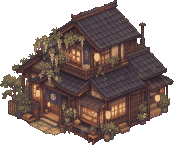
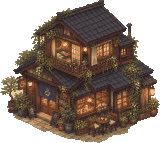
Nueva versión de la librería por fuera
- Sustituye el dibujo exterior de la librería por la nueva versión
  (original en art/source/libreria-exterior-v2.webp), con terraza,
  pizarras y letrero.
- tools/clean_art.py: nueva opción --remove-bg que quita los fondos
  claros "falsos" (blanco o cuadros grises dibujados por la IA) sin
  tocar los blancos del propio dibujo.
- La entrada al barrio y el punto de la puerta se alinean con el
  noren de la nueva fachada.

Claude-Session: https://claude.ai/code/session_018AdnfDpiXdnQwk9spPLrLB

diff --git a/src/data/townLayout.js b/src/data/townLayout.js
@@ -8,10 +8,10 @@
 export const TOWN_SIZE = { width: 1600, height: 1200 };
 
 // Al salir de la librería apareces aquí, delante de su puerta
-export const TOWN_START = { x: 800, y: 1080 };
+export const TOWN_START = { x: 826, y: 1080 };
 
 // Puerta de la librería: al acercarte pregunta si quieres entrar
-export const LIBRARY_DOOR = { x: 800, y: 1072, radio: 22 };
+export const LIBRARY_DOOR = { x: 826, y: 1072, radio: 22 };
 
 export const COLORS = {
   hierba: 0x8fae5d,
@@ -32,8 +32,8 @@ export const PLAZA = { x: 800, y: 620, radio: 95, fuente: 26 };
 export const PATHS = [
   // De la librería a la plaza (rodea la librería por la izquierda)
   [
-    { x: 800, y: 1062 },
-    { x: 790, y: 1100 },
+    { x: 826, y: 1068 },
+    { x: 800, y: 1100 },
     { x: 700, y: 1105 },
     { x: 640, y: 1040 },
     { x: 650, y: 920 },
@@ -95,7 +95,7 @@ export const BUILDINGS = [
     tejado: 50,
     pared: 0xc9a27a,
     techo: 0x4a3b5c,
-    imagen: { archivo: 'libreria-exterior.png', origen: { x: 0.4866, y: 0.9658 } },
+    imagen: { archivo: 'libreria-exterior.png', origen: { x: 0.4608, y: 0.8102 } },
   },
   { id: 'casaOeste', nombre: 'Casa antigua', x: 250, y: 430, w: 120, h: 50, tejado: 45, pared: 0xb89a7a, techo: 0x5a4a4a },
   { id: 'casaSuroeste', nombre: 'Casa antigua', x: 330, y: 980, w: 110, h: 50, tejado: 40, pared: 0xb08f6e, techo: 0x56463f },

diff --git a/tools/clean_art.py b/tools/clean_art.py
@@ -1,5 +1,6 @@
 """Limpia una imagen de "falso pixel art" (p. ej. generada por IA) para el juego.
 
+- Quita un fondo claro "falso" (blanco o cuadros grises dibujados) con --remove-bg.
 - Recorta el espacio vacío alrededor (con --trim, para imágenes con fondo transparente).
 - La reduce al tamaño exacto que usa el juego (cuadrícula real de píxeles).
 - Reduce el número de colores para que todo comparta un estilo coherente.
@@ -7,11 +8,45 @@
 
 Uso:
     python3 tools/clean_art.py ENTRADA SALIDA --size 640x360 [--colors 64]
-    python3 tools/clean_art.py ENTRADA SALIDA --scale 0.16 --trim [--colors 96]
+    python3 tools/clean_art.py ENTRADA SALIDA --scale 0.16 --remove-bg --trim [--colors 96]
 """
 import argparse
 
-from PIL import Image
+from PIL import Image, ImageDraw
+
+
+def remove_light_background(imagen):
+    """Hace transparente el fondo claro y sin color que toca el borde de la imagen.
+
+    Solo se borran las zonas conectadas con el borde, así que los blancos
+    del propio dibujo (cortinas, farolillos…) se conservan."""
+    rgba = imagen.load()
+    ancho, alto = imagen.size
+    mascara = Image.new('L', imagen.size, 0)
+    m = mascara.load()
+    for y in range(alto):
+        for x in range(ancho):
+            r, g, b, a = rgba[x, y]
+            claro = min(r, g, b) > 205 and max(r, g, b) - min(r, g, b) < 22
+            if a < 20 or claro:
+                m[x, y] = 255
+    # Rellena desde el borde las zonas de fondo (marcadas con 128)
+    for x in range(0, ancho, 4):
+        for y in (0, alto - 1):
+            if m[x, y] == 255:
+                ImageDraw.floodfill(mascara, (x, y), 128)
+    for y in range(0, alto, 4):
+        for x in (0, ancho - 1):
+            if m[x, y] == 255:
+                ImageDraw.floodfill(mascara, (x, y), 128)
+    canal = imagen.getchannel('A')  # (es una copia: hay que volver a ponerla en la imagen)
+    alfa = canal.load()
+    for y in range(alto):
+        for x in range(ancho):
+            if m[x, y] == 128:
+                alfa[x, y] = 0
+    imagen.putalpha(canal)
+    return imagen
 
 
 def main():
@@ -21,10 +56,13 @@ def main():
     parser.add_argument('--size', help='ancho x alto final, p. ej. 640x360')
     parser.add_argument('--scale', type=float, help='escala en lugar de tamaño, p. ej. 0.16')
     parser.add_argument('--trim', action='store_true', help='recorta el espacio transparente de alrededor')
+    parser.add_argument('--remove-bg', action='store_true', help='quita un fondo claro dibujado (blanco o cuadros)')
     parser.add_argument('--colors', type=int, default=64, help='número máximo de colores (0 = sin límite)')
     args = parser.parse_args()
 
     imagen = Image.open(args.entrada).convert('RGBA')
+    if args.remove_bg:
+        imagen = remove_light_background(imagen)
     if args.trim:
         caja = imagen.getchannel('A').point(lambda v: 255 if v > 128 else 0).getbbox()
         imagen = imagen.crop(caja)
